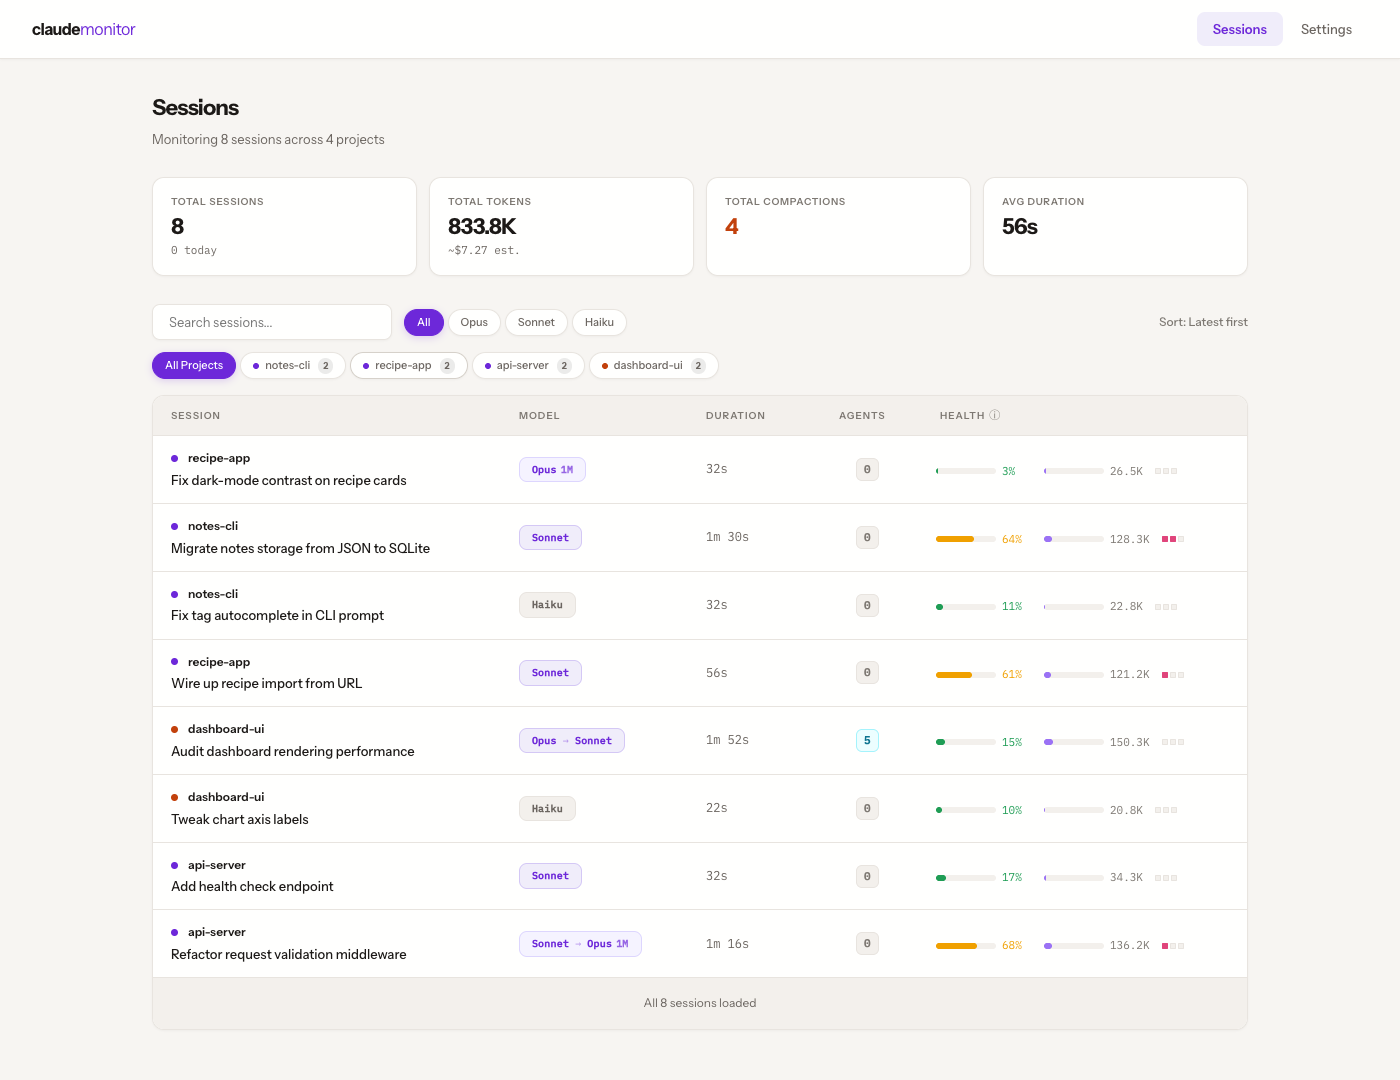
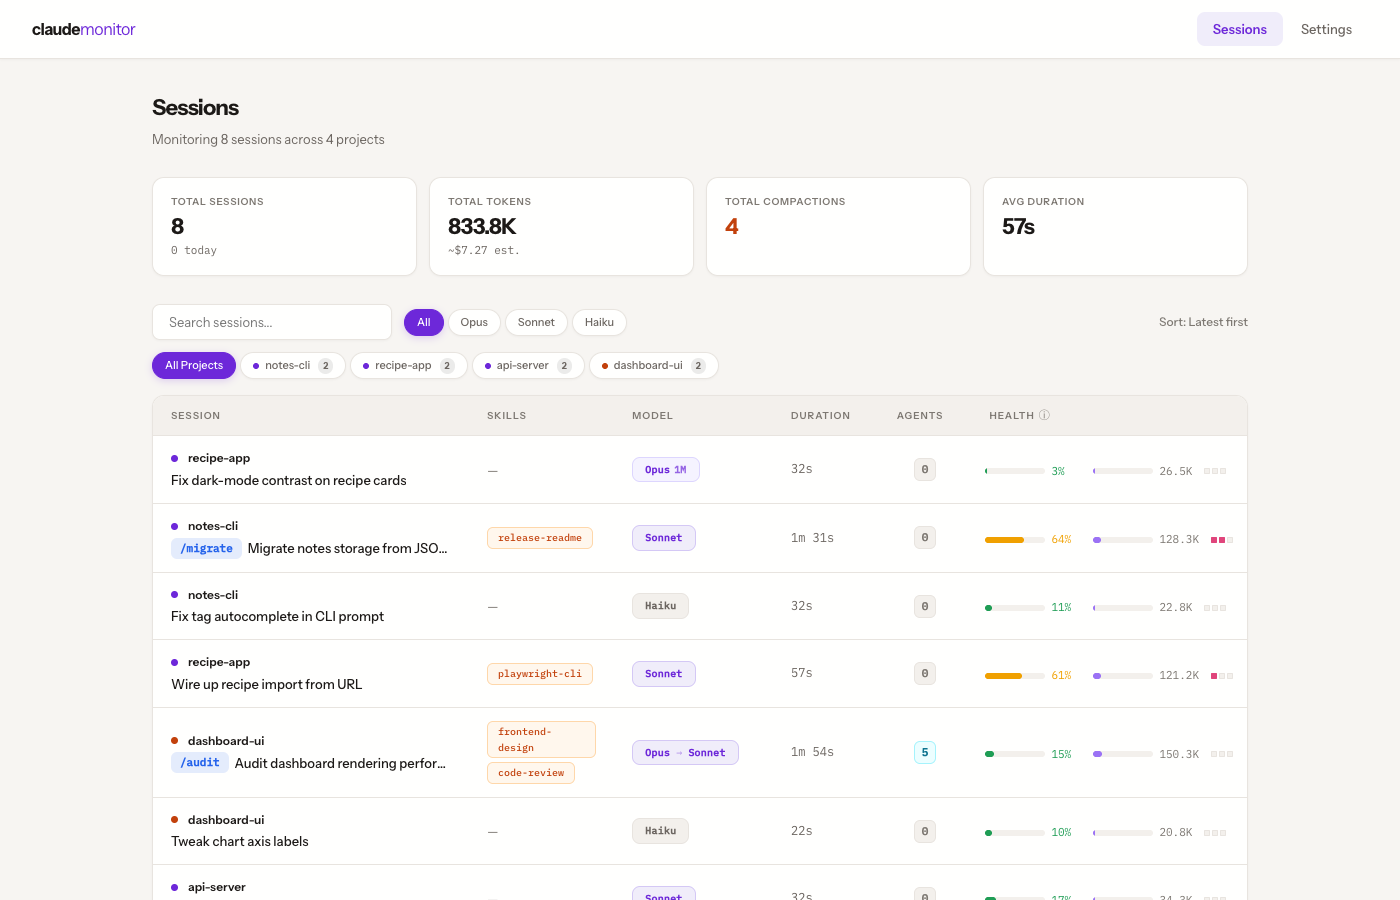
refresh README + demo for [Unreleased] Skills column and event rendering (#43)
- README: broaden Session List copy to cover the new Skills column with
  `+N more` / Show less toggle and the inline command/skill pill on
  session names; broaden Thinking Inspection to describe structured
  event rendering (pretty-printed JSON, markdown prose, labeled
  system-reminder/example blocks) across Timeline, AgentGroup, AgentTree.
- README: bump <!-- hero captured-on --> v0.3.2 → v0.3.4 and rewrite
  alt text on hero, session-list, and session-detail-timeline to match
  the recaptured shots.
- docs/images/hero.gif: regenerated via npm run demo:walkthrough so the
  session-list frames show the new Skills column populated and the
  /audit/-style command pills inline on session names.
- docs/images/session-list.png: recaptured at 1400x900; Skills column
  shows release-readme/playwright-cli/frontend-design/code-review skill
  pills and /migrate /audit command pills on session names.
- scripts/demo-seed.mjs: add two optional params to buildSession —
  firstUserText (embed <command-name> markup so the importer detects a
  command invocation) and trailingSkillExpansions (append synthetic
  "Base directory for this skill:" user messages so the importer
  detects skill invocations). Apply to 4 of the 8 demo sessions so
  recaptures actually exercise the Skills column instead of leaving
  it empty.

diff --git a/README.md b/README.md
@@ -8,9 +8,9 @@
 [![Node](https://img.shields.io/badge/node-%3E%3D20-brightgreen)](https://nodejs.org/)
 
 <!-- hero:start -->
-<!-- hero captured-on: v0.3.2 -->
+<!-- hero captured-on: v0.3.4 -->
 <p align="center">
-  <img src="https://raw.githubusercontent.com/pigorv/claude-monitor/main/docs/images/hero.gif" alt="claude-monitor walkthrough — session list with project filter and Health strip, then session detail showing the Open in Terminal button, context chart with compaction markers, and a 5-agent Gantt timeline" style="max-width: 100%;" />
+  <img src="https://raw.githubusercontent.com/pigorv/claude-monitor/main/docs/images/hero.gif" alt="claude-monitor walkthrough — session list with Skills column and command/skill pills on session names, then session detail showing structured markdown rendering in the timeline, context chart with compaction markers, and a 5-agent Gantt timeline" style="max-width: 100%;" />
 </p>
 <!-- hero:end -->
 
@@ -44,17 +44,17 @@ npx @pigorv/claude-monitor start
 <!-- features:start -->
 ## Features
 
-**Session List** — Filterable, sortable table with model filter chips, a project folder filter with session counts, Sonnet→Opus multi-model pills, search, infinite scroll with a sticky header, and a Health strip on every row showing context %, peak tokens against a 1M reference, and compaction dots.
+**Session List** — Filterable, sortable table with model filter chips, a project folder filter with session counts, Sonnet→Opus multi-model pills, search, infinite scroll with a sticky header, a Health strip on every row showing context %, peak tokens against a 1M reference and compaction dots, and a Skills column showing the slash commands and skills invoked in each session (truncated to three pills with a `+N more` / Show less toggle). Sessions kicked off with `/command` or a skill show the same pill inline in the session name.
 
-<img src="https://raw.githubusercontent.com/pigorv/claude-monitor/main/docs/images/session-list.png" alt="Session list across 4 projects with project filter chips, multi-model pills (Sonnet→Opus, Opus→Sonnet), and Health strips showing context %, peak tokens, and compaction dots" width="700" />
+<img src="https://raw.githubusercontent.com/pigorv/claude-monitor/main/docs/images/session-list.png" alt="Session list across 4 projects with project filter chips, model filter chips, /migrate and /audit command pills on session names, a Skills column showing release-readme, playwright-cli, frontend-design and code-review pills, an Opus → Sonnet multi-model pill, and Health strips with context %, peak tokens and compaction dots" width="700" />
 
 **Context Pressure** — Interactive token chart (uPlot) with input/output/cache breakdown, model-specific thresholds, compaction markers, and drag-to-zoom.
 
 <img src="https://raw.githubusercontent.com/pigorv/claude-monitor/main/docs/images/session-detail-context.png" alt="Session detail page with header stats and a one-click Open in Terminal button, plus a context utilization chart showing two compaction drops and warning/danger threshold zones" width="700" />
 
-**Thinking Inspection** — Expandable thinking blocks in the event timeline, with infinite scroll across long sessions. See exactly where Claude's reasoning chain took a wrong turn.
+**Thinking Inspection** — Expandable thinking blocks in the event timeline, with infinite scroll across long sessions. Thinking, skill expansions, and tool inputs/outputs render with structured formatting — markdown for prose, pretty-printed JSON for tool inputs, and labeled blocks for `<system-reminder>` / `<example>` tags — so you can actually read where Claude's reasoning chain took a wrong turn. The same rendering applies in the Agents tab and sub-agent groups.
 
-<img src="https://raw.githubusercontent.com/pigorv/claude-monitor/main/docs/images/session-detail-timeline.png" alt="Timeline tab showing chronological event cards with tool calls, a compaction marker, and a token budget bar at 67% — plus the always-visible Open in Terminal button on the session header" width="700" />
+<img src="https://raw.githubusercontent.com/pigorv/claude-monitor/main/docs/images/session-detail-timeline.png" alt="Timeline tab with a /audit command pill marking the session start, an expanded Glob tool call showing pretty-printed JSON input, an expanded thinking block, and a parent-vs-agents token budget bar" width="700" />
 
 **Agent Tree** — Full sub-agent visibility with Gantt timeline, per-agent token costs, tool call breakdowns, compression ratios, and result classification. See which agents ran in parallel, which ones failed, and how much context each one consumed.
 
